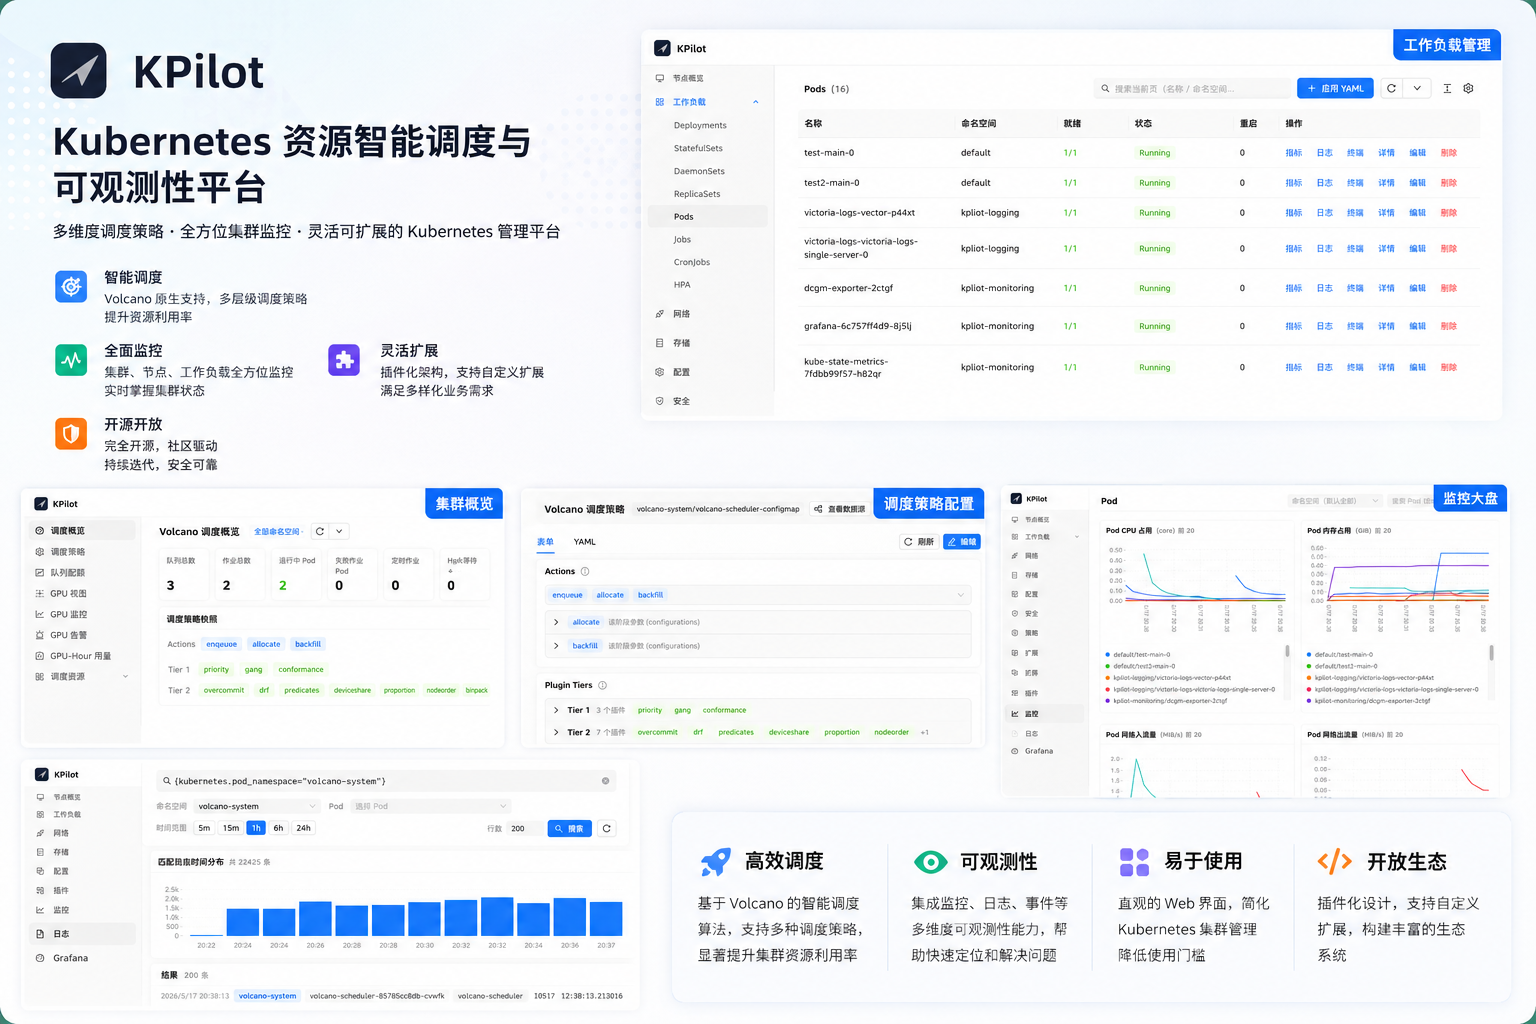
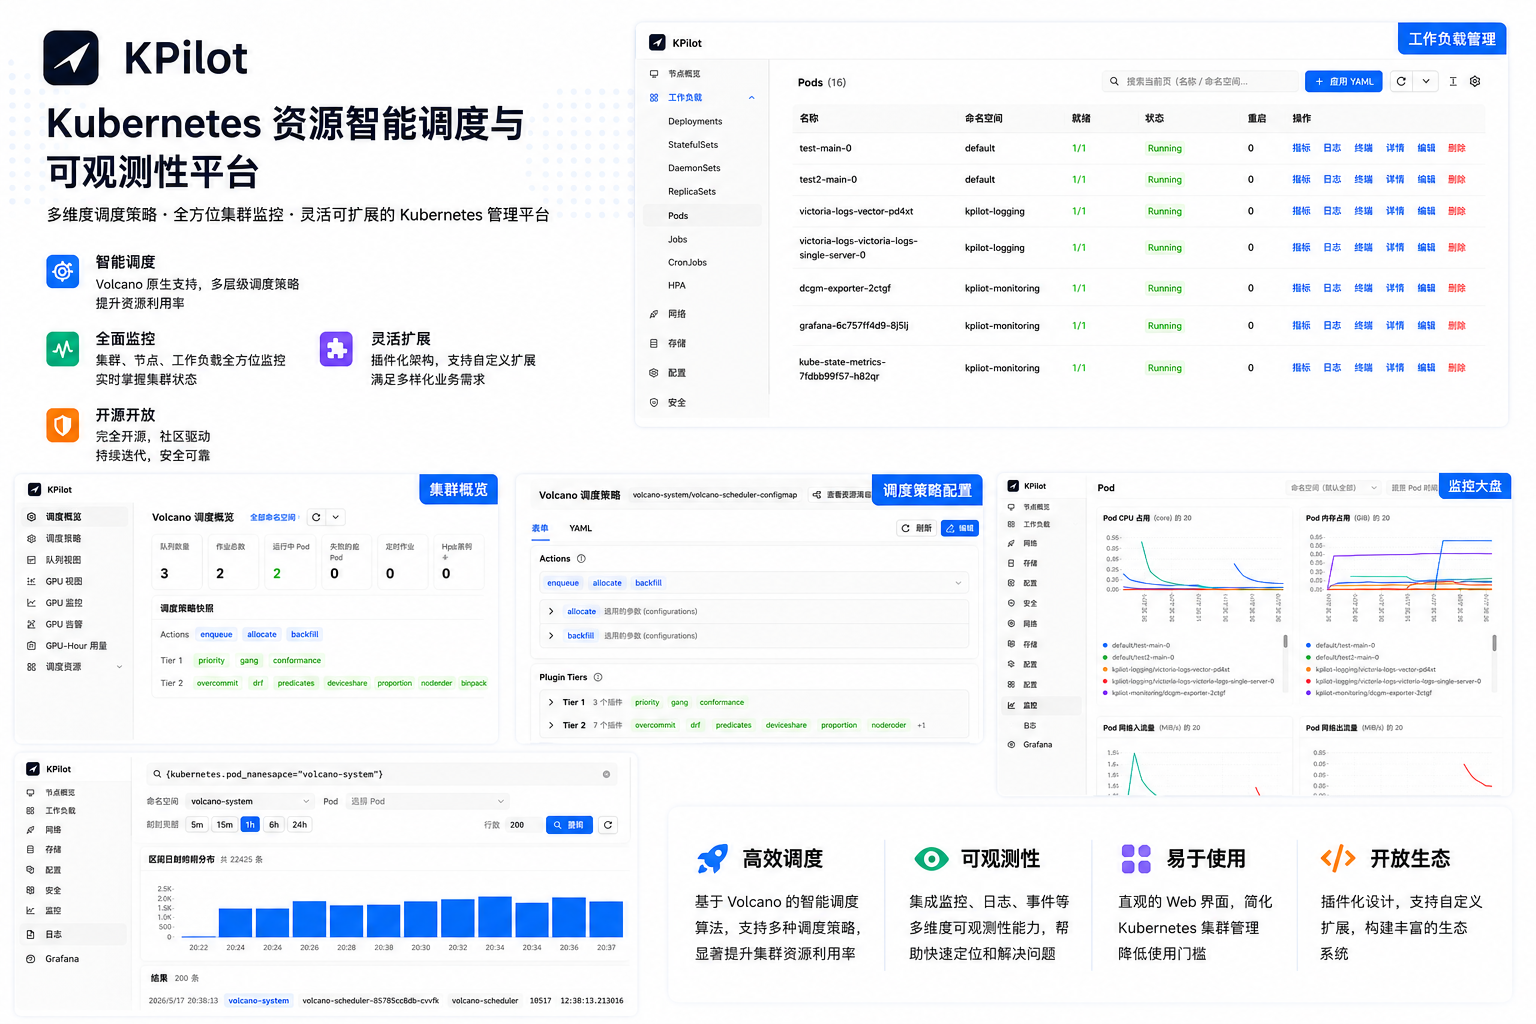
docs(readme): screenshot grid as raw HTML tables, captions dropped
Two fixes layered onto the screenshot gallery:

1. Markdown tables let column widths flex to fit content, so the
   plugin row (one image cell + one long-text cell) ended up with
   the image column squeezed and the screenshot rendering smaller
   than its declared width=480. Switched the three gallery tables
   to raw HTML with explicit <table width="100%"> + <td width="50%">,
   which GitHub honors verbatim — columns are locked 50/50 regardless
   of cell content.

2. Captions varied 1 vs 2 vs 3 lines per cell and dragged row heights
   out of alignment with the screenshots above them. Removed the
   <br/><sub>caption</sub> from every gallery image; the section
   heading + docs link is enough context and now every row's height
   is determined purely by the image (all uniform 1.695:1 aspect).
   The plugin section's supplementary paragraph is gone too — the
   matching Key Features bullet already covers it.

Plugin row keeps the 2-cell shape (image left, empty right) so the
visual rhythm matches Clusters and Compute.

diff --git a/README.md b/README.md
@@ -80,23 +80,38 @@ The cluster row in the Server UI transitions to Online within a few seconds. Pro
 
 ### Cluster Management — [`docs/clusters.md`](docs/clusters.md)
 
-| | |
-|---|---|
-| <img src="docs/assets/screenshots/pod.png" alt="Pod browser with live logs and terminal" width="480"> <br/><sub>Workload browser with live logs, in-browser terminal, and per-container metrics</sub> | <img src="docs/assets/screenshots/vm.png" alt="Self-rendered cluster monitoring" width="480"> <br/><sub>Self-rendered monitoring — cluster / node / pod drill-down direct from VictoriaMetrics</sub> |
-| <img src="docs/assets/screenshots/vmlogs.png" alt="Cluster logging" width="480"> <br/><sub>Self-rendered LogsQL search with namespace + pod stream-selector helper</sub> | <img src="docs/assets/screenshots/grafana.png" alt="Embedded Grafana escape hatch" width="480"> <br/><sub>Embedded Grafana for custom dashboards and ad-hoc PromQL</sub> |
+<table width="100%">
+<tr>
+<td width="50%"><img src="docs/assets/screenshots/pod.png" alt="Pod browser with live logs and terminal" width="480"></td>
+<td width="50%"><img src="docs/assets/screenshots/vm.png" alt="Self-rendered cluster monitoring" width="480"></td>
+</tr>
+<tr>
+<td width="50%"><img src="docs/assets/screenshots/vmlogs.png" alt="Cluster logging" width="480"></td>
+<td width="50%"><img src="docs/assets/screenshots/grafana.png" alt="Embedded Grafana escape hatch" width="480"></td>
+</tr>
+</table>
 
 ### Compute Scheduling — [`docs/compute.md`](docs/compute.md)
 
-| | |
-|---|---|
-| <img src="docs/assets/screenshots/scheduler-config.png" alt="Visual scheduler policy editor" width="480"> <br/><sub>Visual scheduler-policy editor for Volcano actions, tiers, and plugin parameters</sub> | <img src="docs/assets/screenshots/scheduler-queue.png" alt="Queue quotas" width="480"> <br/><sub>Multi-resource queue quotas with capability / guarantee / allocated / deserved views</sub> |
-| <img src="docs/assets/screenshots/gpu.png" alt="vGPU view" width="480"> <br/><sub>Cluster vGPU view mapping every physical card to its current slice holders</sub> | <img src="docs/assets/screenshots/volcano-job.png" alt="Volcano Job authoring" width="480"> <br/><sub>Typed forms for Volcano Job, CronJob, Queue, PodGroup — no hand-written YAML required</sub> |
+<table width="100%">
+<tr>
+<td width="50%"><img src="docs/assets/screenshots/scheduler-config.png" alt="Visual scheduler policy editor" width="480"></td>
+<td width="50%"><img src="docs/assets/screenshots/scheduler-queue.png" alt="Queue quotas" width="480"></td>
+</tr>
+<tr>
+<td width="50%"><img src="docs/assets/screenshots/gpu.png" alt="vGPU view" width="480"></td>
+<td width="50%"><img src="docs/assets/screenshots/volcano-job.png" alt="Volcano Job authoring" width="480"></td>
+</tr>
+</table>
 
 ### Plugin Management — [`docs/plugins.md`](docs/plugins.md)
 
-| | |
-|---|---|
-| <img src="docs/assets/screenshots/plugin.png" alt="Plugin registry" width="480"> <br/><sub>Helm-chart-driven plugin registry: enable, upgrade, and stream install logs per cluster</sub> | <sub>Plugins ship as Helm charts and reconcile via an in-cluster CRD. The same pipeline powers the built-in observability stack (VictoriaMetrics / VictoriaLogs / DCGM Exporter / Grafana) and operator-supplied charts — bring-your-own with per-cluster values overrides, install logs streamed live to the UI.</sub> |
+<table width="100%">
+<tr>
+<td width="50%"><img src="docs/assets/screenshots/plugin.png" alt="Plugin registry" width="480"></td>
+<td width="50%"></td>
+</tr>
+</table>
 
 ## Roadmap — Model Serving
 

diff --git a/README.zh-CN.md b/README.zh-CN.md
@@ -80,23 +80,38 @@ helm install kpilot-worker oci://ghcr.io/togettoyou/charts/kpilot \
 
 ### 集群管理 —— [`docs/clusters.md`](docs/clusters.md)
 
-| | |
-|---|---|
-| <img src="docs/assets/screenshots/pod.png" alt="工作负载浏览 + 日志 / 终端" width="480"> <br/><sub>工作负载浏览，浏览器内调取 Pod 日志、终端、按容器查看 CPU / 内存即时指标</sub> | <img src="docs/assets/screenshots/vm.png" alt="自绘集群监控" width="480"> <br/><sub>自绘监控 —— 直接对接 VictoriaMetrics 的集群 / 节点 / Pod 三级下钻</sub> |
-| <img src="docs/assets/screenshots/vmlogs.png" alt="自绘集群日志" width="480"> <br/><sub>自绘 LogsQL 搜索，命名空间 + Pod 自动构造 stream selector</sub> | <img src="docs/assets/screenshots/grafana.png" alt="Grafana 兜底" width="480"> <br/><sub>嵌入式 Grafana，留给自定义看板与即席 PromQL</sub> |
+<table width="100%">
+<tr>
+<td width="50%"><img src="docs/assets/screenshots/pod.png" alt="工作负载浏览 + 日志 / 终端" width="480"></td>
+<td width="50%"><img src="docs/assets/screenshots/vm.png" alt="自绘集群监控" width="480"></td>
+</tr>
+<tr>
+<td width="50%"><img src="docs/assets/screenshots/vmlogs.png" alt="自绘集群日志" width="480"></td>
+<td width="50%"><img src="docs/assets/screenshots/grafana.png" alt="Grafana 兜底" width="480"></td>
+</tr>
+</table>
 
 ### 算力调度 —— [`docs/compute.md`](docs/compute.md)
 
-| | |
-|---|---|
-| <img src="docs/assets/screenshots/scheduler-config.png" alt="调度策略编辑器" width="480"> <br/><sub>调度策略可视化编辑器，Volcano actions / tier / plugin 参数全字段提示</sub> | <img src="docs/assets/screenshots/scheduler-queue.png" alt="队列配额" width="480"> <br/><sub>多资源队列配额：capability / guarantee / allocated / deserved 四维拆解</sub> |
-| <img src="docs/assets/screenshots/gpu.png" alt="vGPU 视图" width="480"> <br/><sub>集群 vGPU 视图，每张物理卡按当前持有切片的 Pod 聚合展示</sub> | <img src="docs/assets/screenshots/volcano-job.png" alt="Volcano Job 表单" width="480"> <br/><sub>Volcano Job / CronJob / Queue / PodGroup 类型化表单 —— 无需手写 YAML</sub> |
+<table width="100%">
+<tr>
+<td width="50%"><img src="docs/assets/screenshots/scheduler-config.png" alt="调度策略编辑器" width="480"></td>
+<td width="50%"><img src="docs/assets/screenshots/scheduler-queue.png" alt="队列配额" width="480"></td>
+</tr>
+<tr>
+<td width="50%"><img src="docs/assets/screenshots/gpu.png" alt="vGPU 视图" width="480"></td>
+<td width="50%"><img src="docs/assets/screenshots/volcano-job.png" alt="Volcano Job 表单" width="480"></td>
+</tr>
+</table>
 
 ### 插件管理 —— [`docs/plugins.md`](docs/plugins.md)
 
-| | |
-|---|---|
-| <img src="docs/assets/screenshots/plugin.png" alt="插件注册表" width="480"> <br/><sub>Helm chart 驱动的插件注册表：按集群启用 / 升级 / 禁用，安装日志实时回传</sub> | <sub>插件统一以 Helm chart 形态分发、通过集群内 CRD 协调，同一条流水线既装 KPilot 自带的可观测性栈（VictoriaMetrics / VictoriaLogs / DCGM Exporter / Grafana），也装运维方自定义的 chart —— 支持按集群覆盖 values，安装过程实时回传 UI。</sub> |
+<table width="100%">
+<tr>
+<td width="50%"><img src="docs/assets/screenshots/plugin.png" alt="插件注册表" width="480"></td>
+<td width="50%"></td>
+</tr>
+</table>
 
 ## 演进路线 —— 模型服务
 